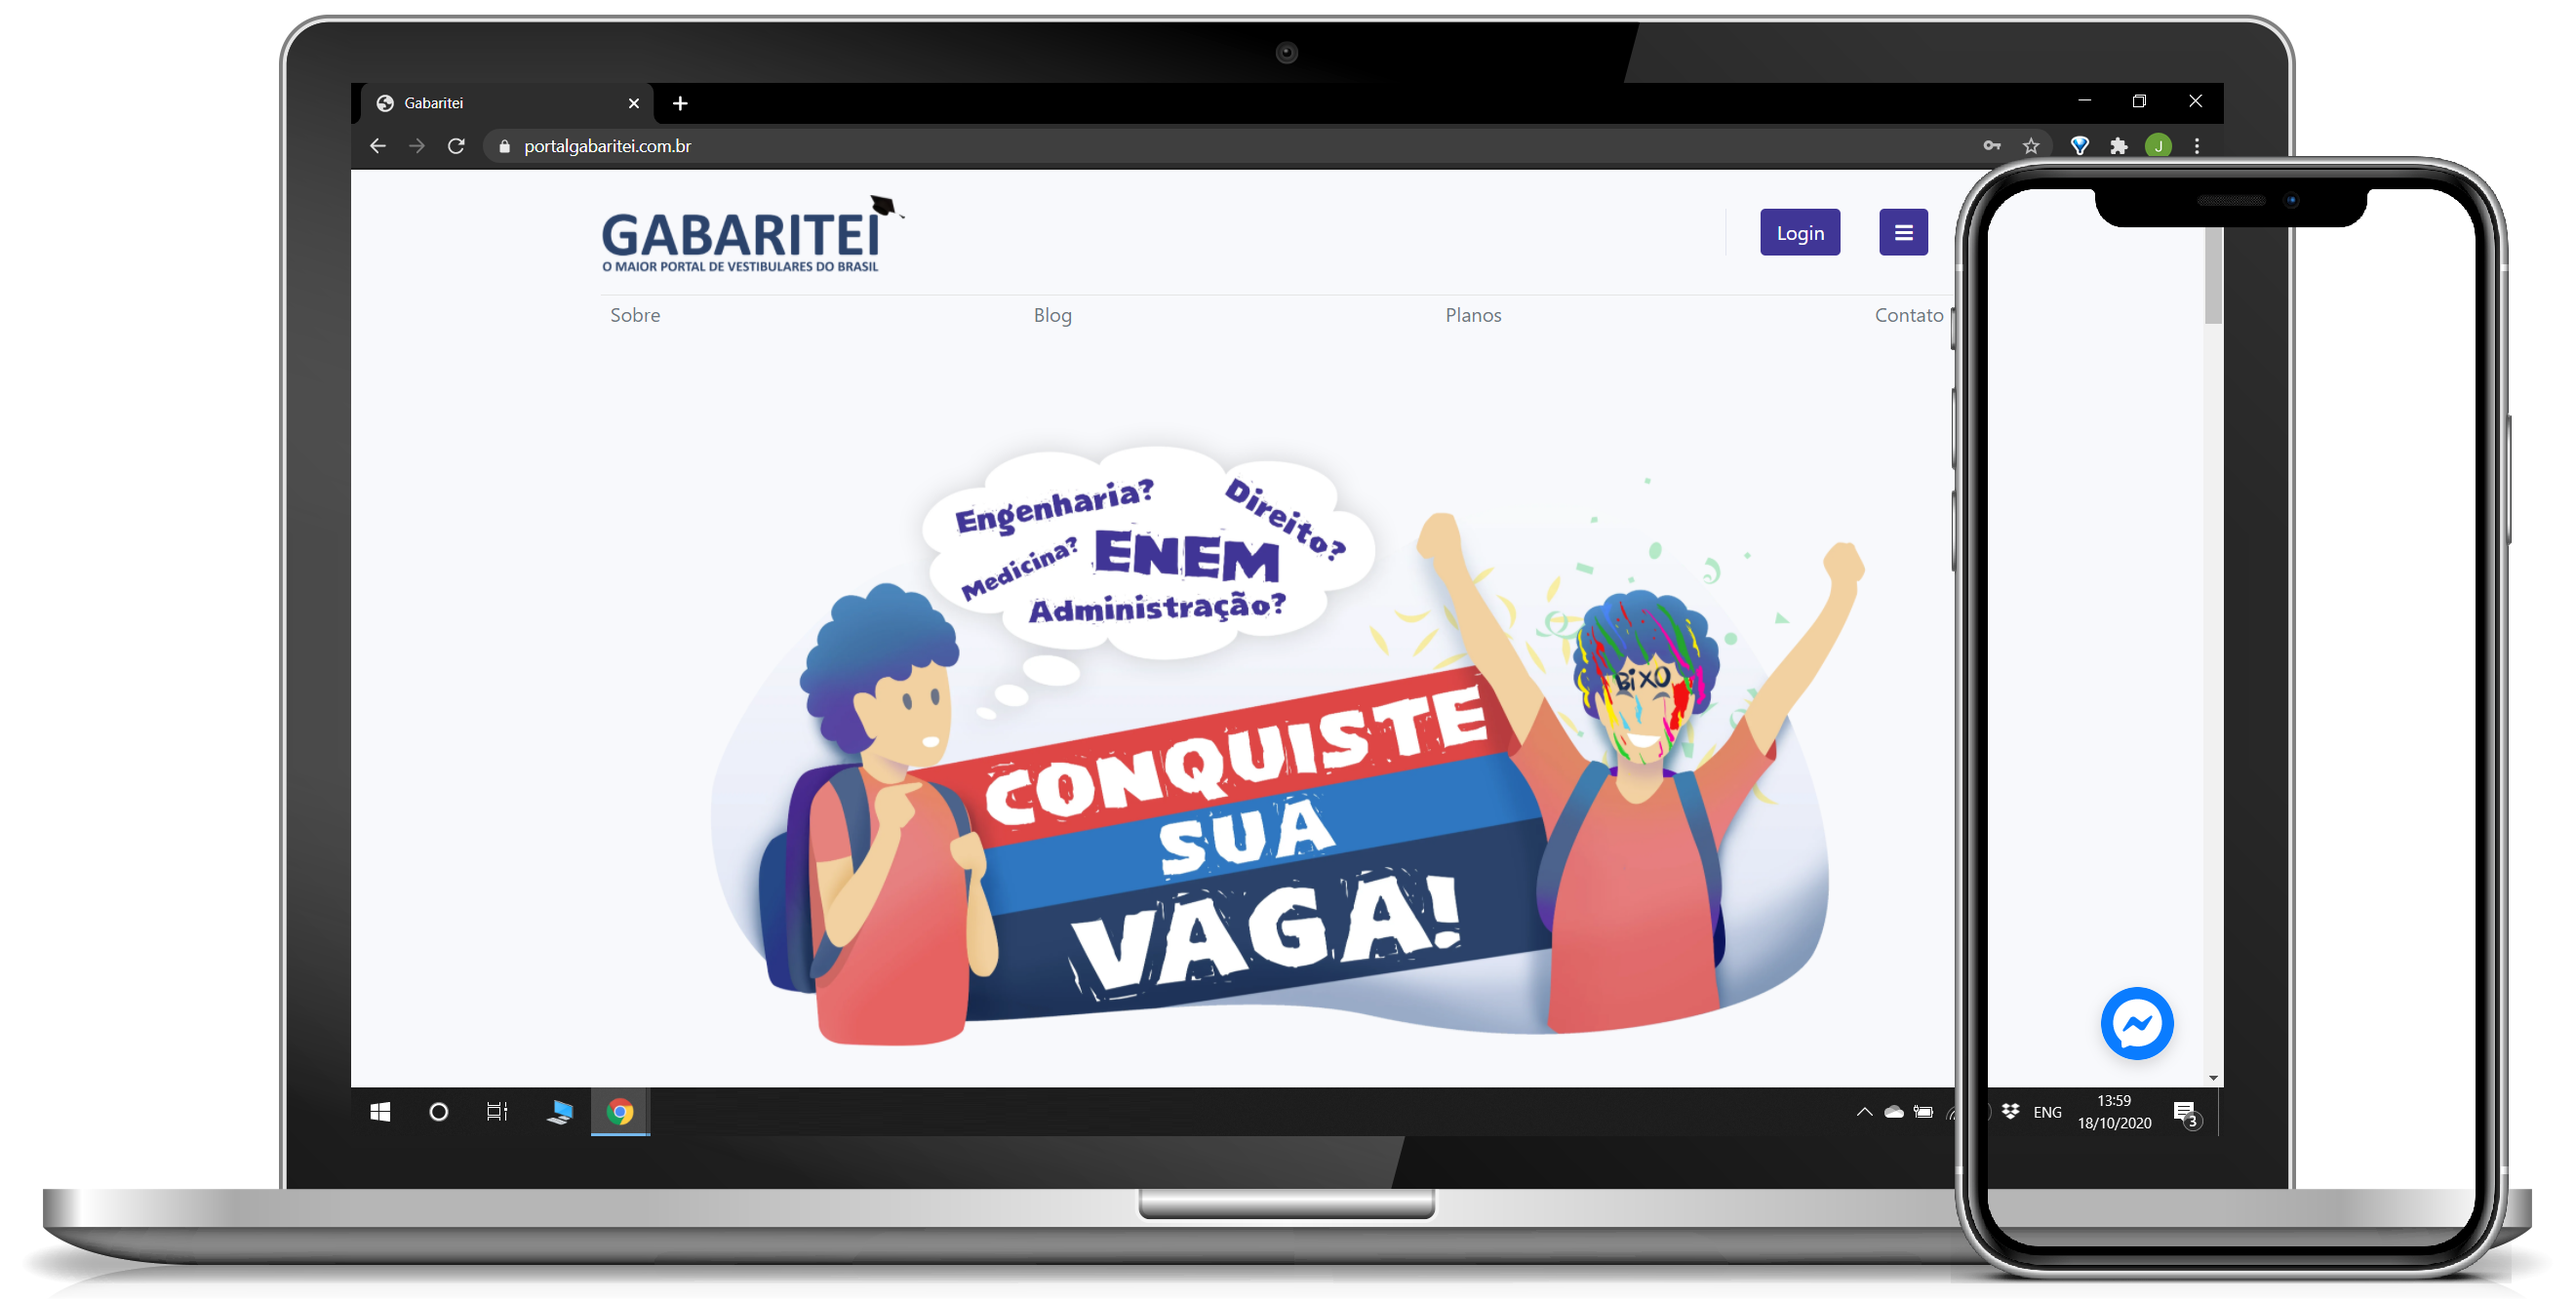
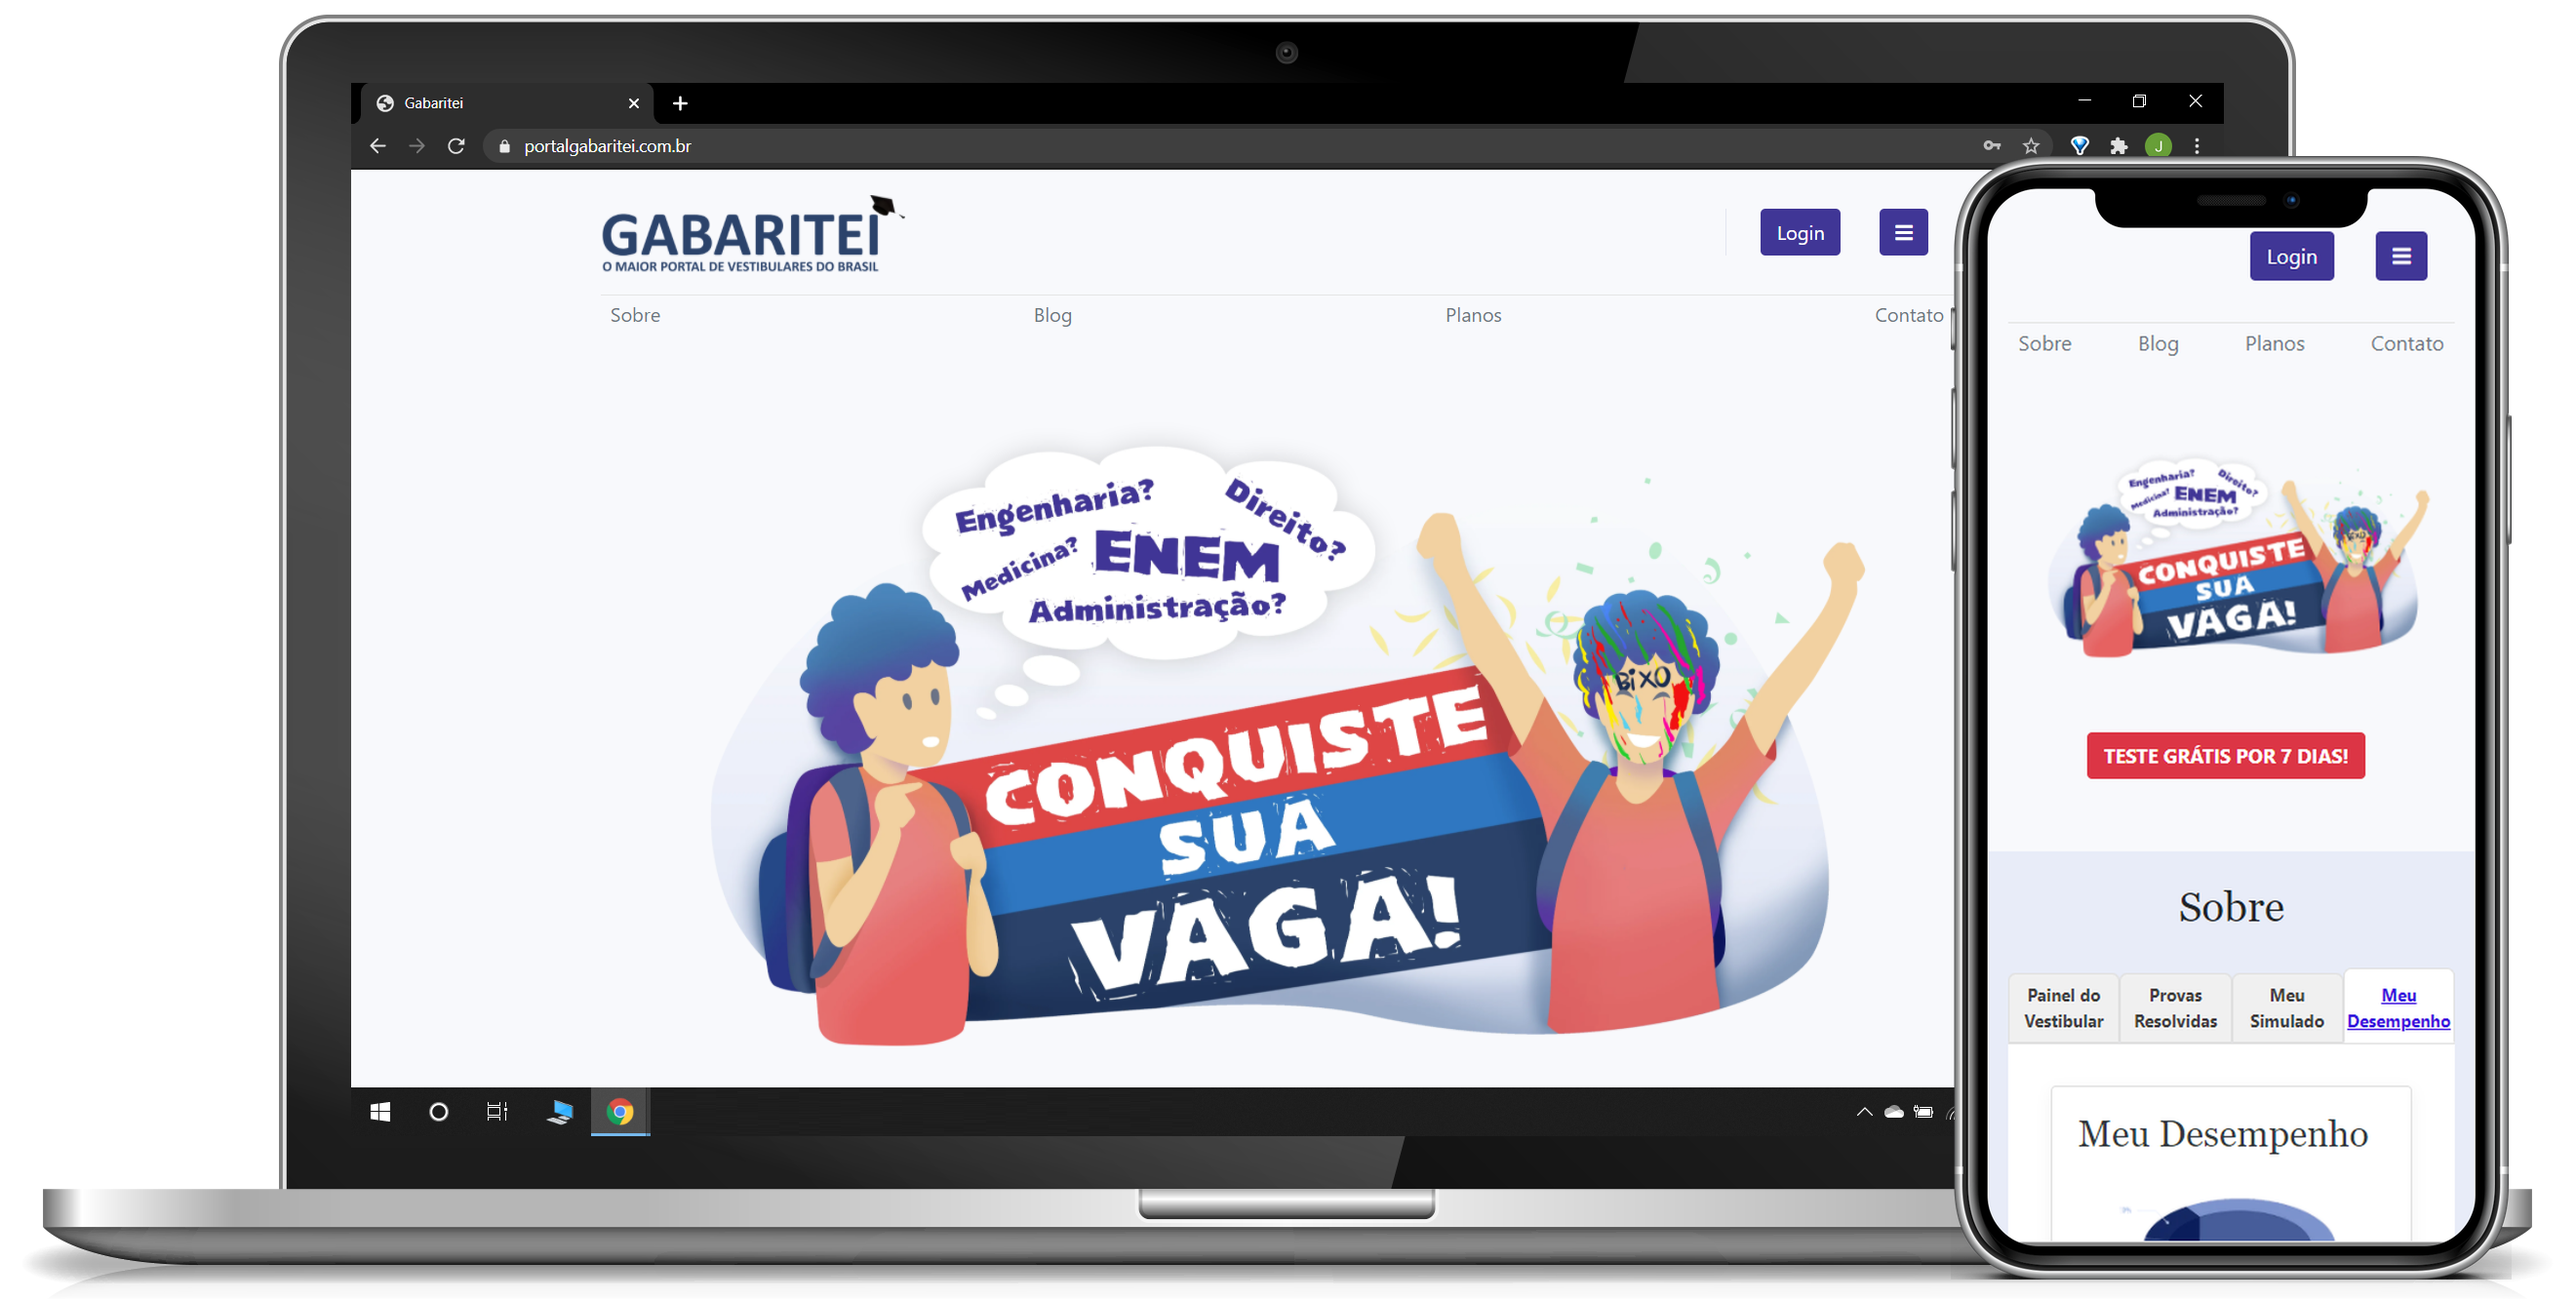
Exporting working, but very messy
The code is working, exporting ok (see file Combined_Both.png), but it is very messy.
In the next commit I will fix it.

Changed region(s): [[0.7452, 0.1537, 0.9625, 1.0], [0.9315, 0.2459, 0.9625, 0.2766], [0.7762, 0.2459, 0.8073, 0.2766]]

diff --git a/Smart_Image_Creator.py b/Smart_Image_Creator.py
@@ -1,0 +1,115 @@
+__author__ = 'Matheus Ruggeri' 
+ImageFilesSource = 'https://www.searchpng.com/download-png/?imageid=11850'
+ImageFilesSource = 'https://www.searchpng.com/download-png/?imageid=7219'
+
+'''
+Procedure:
+    Import the images.
+    Check the size of the print screen and compare with the screen size in the template
+    If the print is larger, expands the template by copy/past some lines in the figure
+
+
+'''
+
+from PIL import Image
+import sys
+
+file_destination='SP_Print_Save.png'
+imagefile = open(file_destination, 'wb')
+
+SP = Image.open('Images/Smartphone_Crop.png')
+SP_width, SP_height = SP.size
+# Screen Square -> (64,57) - (914,57) / (64,1900) - (914,1900)
+Screen_X_Size = 914 - 64 + 1
+Screen_Y_Size = 1900 - 57 + 1
+
+Print_SP = Image.open('Print_SP.png')
+Print_SP_width, Print_SP_height = Print_SP.size
+
+
+# Crop the important parts of image
+SP_Left = SP.crop( (0, 0, 489, SP_height) )
+SP_Center_Line = SP.crop( (489, 0, 489+1, SP_height) )
+SP_Right = SP.crop( (490, 0, 490+489, SP_height) )
+
+
+xPosition = 0
+yPosition = 0
+addedLines = 0
+
+if (Print_SP_width < Screen_X_Size):
+    ratio = (Screen_X_Size/Print_SP_width)
+    Print_SP = Print_SP.resize([int(Print_SP_width * ratio), int(Print_SP_height * ratio)], Image.ANTIALIAS) 
+    Print_SP_width, Print_SP_height = Print_SP.size
+    
+    
+if (Print_SP_width >= Screen_X_Size):
+    New_Image_X = SP.size[0] + Print_SP_width - Screen_X_Size
+    New_Image_Y = SP.size[1]
+    SP_New_Image = Image.new('RGBA', (New_Image_X, New_Image_Y))
+    
+    SP_New_Image.paste(SP_Left, (xPosition, yPosition))
+    
+    Num_new_columns = Print_SP_width - Screen_X_Size
+    xPosition = xPosition + SP_Left.size[0]
+    
+    while (addedLines <= Num_new_columns/2):
+        addedLines += 1
+        SP_New_Image.paste(SP_Center_Line, (xPosition,yPosition))
+        xPosition = xPosition + SP_Center_Line.size[0]
+    
+    SP_New_Image.paste(SP_Right, (xPosition,yPosition))
+    xPosition = xPosition + SP_Right.size[0]
+else:
+    print("Image too small X")
+    sys.exit()
+    
+SP_New_Image.save(open("Temp/XsizeFixed.png", 'wb'), "png", quality=100)
+SP_New_Image.close()
+
+SP_Temp_Image = Image.open("Temp/XsizeFixed.png")
+SP_Temp_width, SP_Temp_height = SP_Temp_Image.size
+
+# Crop the important parts of image
+SP_Top = SP_Temp_Image.crop( (0, 0, SP_Temp_width, 983) )
+SP_CenterLine = SP_Temp_Image.crop( (0, 983, SP_Temp_width, 983+1) )
+SP_Bottom = SP_Temp_Image.crop( (0, 983, SP_Temp_width, 983+983) )
+
+xPosition = 0
+yPosition = 0
+addedLines = 0
+
+if (Print_SP_height > Screen_Y_Size or True):
+    New_Image_X = SP_New_Image.size[0]
+    New_Image_Y = SP_New_Image.size[1] + Print_SP_height - Screen_Y_Size
+    SP_New_Image = Image.new('RGBA', (New_Image_X, New_Image_Y))
+    
+    Num_new_lines = Print_SP_height - Screen_Y_Size
+    
+    SP_New_Image.paste(SP_Top, (xPosition, yPosition))
+    yPosition = yPosition + SP_Top.size[1]
+    
+    while (addedLines < Num_new_lines):
+        addedLines += 1
+        SP_New_Image.paste(SP_CenterLine, (xPosition, yPosition))
+        yPosition = yPosition + SP_CenterLine.size[1]
+    
+    SP_New_Image.paste(SP_Bottom, (xPosition, yPosition))
+    yPosition = yPosition + SP_Bottom.size[1]
+        
+else:
+    print("Image too small Y")
+    sys.exit()
+    
+SP_New_Image.save(open("Temp/Ready.png", 'wb'), "png", quality=100)
+
+
+layer1 = Image.new('RGBA', (New_Image_X, New_Image_Y))
+layer2 = Image.new('RGBA', (New_Image_X, New_Image_Y))
+
+layer1.paste(Print_SP, (64,57))
+layer2.paste(SP_New_Image, (0,0))
+
+Image.alpha_composite(layer1, layer2).save("Combined_SP.png")
+
+SP_New_Image.close()

diff --git a/Img Combine.py b/Img Combine.py
@@ -1,6 +1,6 @@
 from PIL import Image
 
-images = [Image.open(x) for x in ['Combined_PC.png', 'Images/Smartphone_Crop.png']]
+images = [Image.open(x) for x in ['Combined_PC.png', 'Combined_SP.png']]
 
 New_Image_X = images[0].size[0]
 New_Image_Y = images[0].size[1]
@@ -13,8 +13,5 @@ Smartphone_Resize = images[1].resize([int(width_SP/1.7), int(height_SP/1.7)], Im
 
 layer1.paste(images[0], (0,0))
 layer2.paste(Smartphone_Resize, (2000,160))
-
-images[0].convert('RGBA')
-images[1].convert('RGBA')
 
 Image.alpha_composite(layer1, layer2).save("Combined_Both.png")
